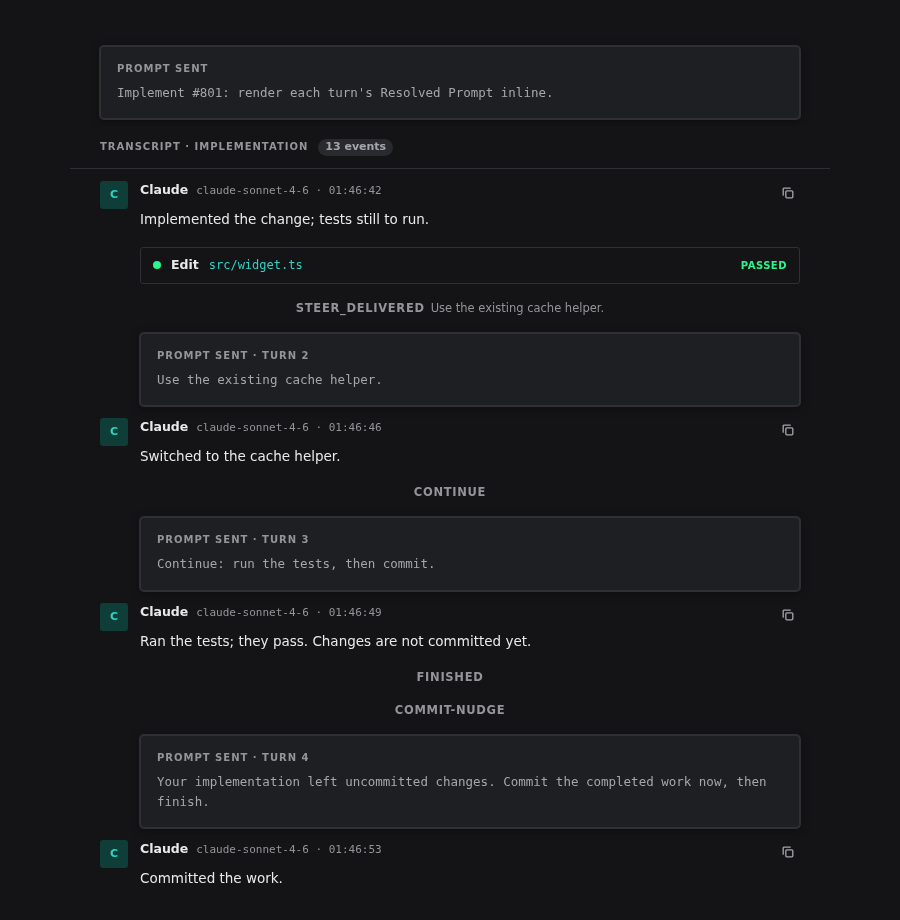
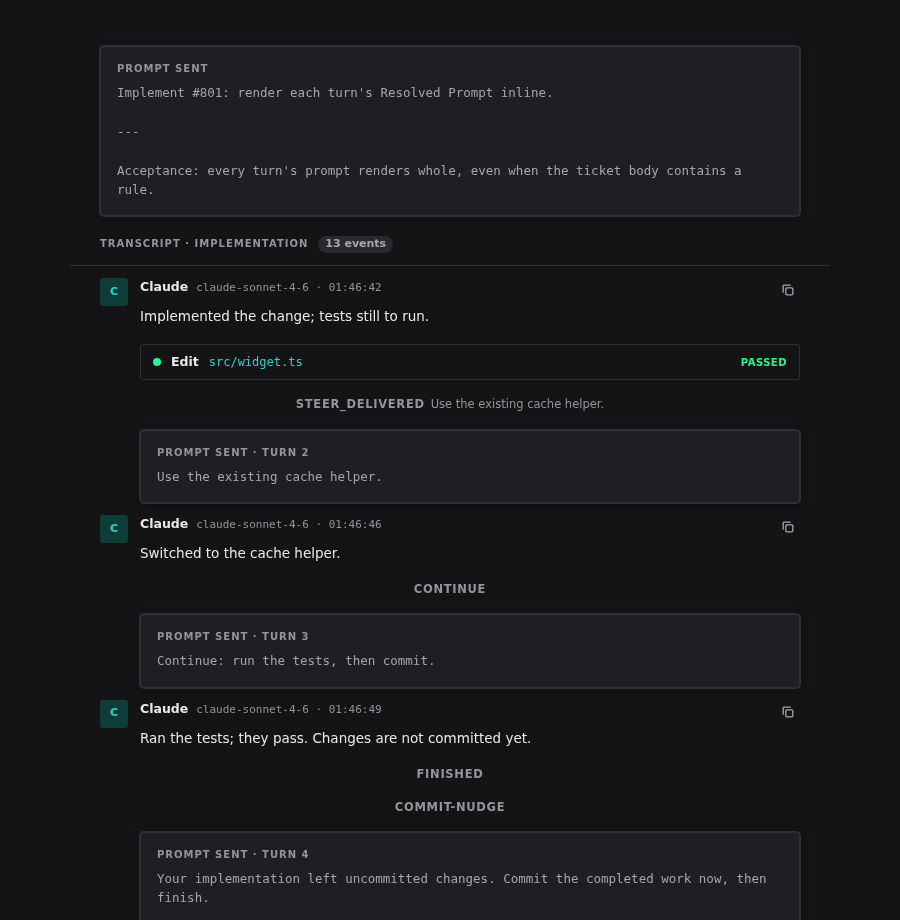
fix: segment archived prompts by sidecar offsets, not a text separator
Prompts carry user markdown that can contain the --- rule used to join them
in prompt.md, so splitting on it cut turns short. The writer now records each
prompt's offsets in prompt.index.jsonl and the read API serves exact segments.
Also updates the stale Prompt fragments settings test for the critic fields.

diff --git a/src/archive/task-archive.ts b/src/archive/task-archive.ts
@@ -58,6 +58,7 @@ export interface OperatorInput {
 }
 
 const PROMPT_SEPARATOR = '\n\n---\n\n';
+const PROMPT_INDEX_FILE = 'prompt.index.jsonl';
 const PROMPT_READ_CHUNK_BYTES = 64 * 1024;
 
 
@@ -87,34 +88,57 @@ async function pathExists(path: string): Promise<boolean> {
   return await access(path).then(() => true, () => false);
 }
 
+function parsePromptIndex(text: string, bodyBytes: number): { start: number; length: number }[] | null {
+  const spans: { start: number; length: number }[] = [];
+  for (const line of text.split('\n')) {
+    if (line === '') continue;
+    try {
+      const { start, length } = JSON.parse(line) as { start: unknown; length: unknown };
+      if (!Number.isInteger(start) || !Number.isInteger(length) || (start as number) < 0 || (length as number) < 0 || (start as number) + (length as number) > bodyBytes) return null;
+      spans.push({ start: start as number, length: length as number });
+    } catch {
+      return null;
+    }
+  }
+  return spans.length > 0 ? spans : null;
+}
+
 class AppendFile {
   private stream: WriteStream | null = null;
   private chain: Promise<void> = Promise.resolve();
   private closed = false;
   private hasContent = false;
+  private size = 0;
 
   constructor(private readonly dir: Promise<string>, private readonly name: string) {}
 
-  write(data: string, separator = ''): void {
+  /** `onWritten` receives the byte offset and length of `data` itself (excluding the separator). */
+  write(data: string, separator = '', onWritten?: (start: number, length: number) => void): void {
     if (this.closed) return;
     this.chain = this.chain.then(async () => {
       try {
         if (!this.stream) {
           const path = join(await this.dir, this.name);
-          this.hasContent = await stat(path).then((s) => s.size > 0, () => false);
+          this.size = await stat(path).then((s) => s.size, () => 0);
+          this.hasContent = this.size > 0;
           this.stream = createWriteStream(path, { flags: 'a' });
           this.stream.on('error', (err) => warn('archive: append stream failed', err, { file: this.name }));
         }
         const stream = this.stream;
         if (stream.destroyed) return;
+        const lead = this.hasContent ? Buffer.byteLength(separator) : 0;
+        const start = this.size + lead;
+        const length = Buffer.byteLength(data);
         if (this.hasContent) data = `${separator}${data}`;
         this.hasContent = true;
+        this.size += lead + length;
         await new Promise<void>((resolve, reject) => {
           stream.write(data, (err) => {
             if (err) reject(err);
             else resolve();
           });
         });
+        onWritten?.(start, length);
       } catch (err) {
         warn('archive: append failed', err, { file: this.name });
       }
@@ -423,6 +447,29 @@ export class TaskArchive {
     }
   }
 
+  /** Each prompt of a step's `prompt.md` as a separate string, sliced by the byte-offset sidecar; archives without one (legacy) are split on the separator, which is ambiguous when a prompt contains a rule. */
+  async readArchivedPromptSegments(
+    owner: TaskRow | { workspaceId: number; epicRef: TrackerRef },
+    attemptNumber: number,
+    locator: string,
+    yieldNow: () => Promise<void> = yieldToEventLoop,
+  ): Promise<string[] | null> {
+    try {
+      const root = await this.existingOwnerDir(owner);
+      if (!root) return null;
+      const attemptDir = join(root, 'attempts', String(attemptNumber));
+      const body = await this.readPromptFile(attemptDir, locator, yieldNow, true);
+      if (!body) return null;
+      const index = await this.readPromptFile(attemptDir, join(dirname(locator), PROMPT_INDEX_FILE), yieldNow, true, PROMPT_INDEX_FILE);
+      const spans = index ? parsePromptIndex(index.toString('utf8'), body.length) : null;
+      if (!spans) return body.toString('utf8').split(PROMPT_SEPARATOR).filter((p) => p.trim() !== '');
+      return spans.map(({ start, length }) => body.subarray(start, start + length).toString('utf8'));
+    } catch (err) {
+      warn('archive: resolved prompt segments read failed', err, { attemptNumber, locator });
+      return null;
+    }
+  }
+
   /** Read an Epic refresh-resolver prompt by its `refresh/<runId>/prompt.md` locator; null when absent or not a prompt file under the Epic's `refresh` directory. */
   async readArchivedEpicRefreshPrompt(
     workspaceId: number,
@@ -460,9 +507,11 @@ export class TaskArchive {
     }
   }
 
-  private async readPromptFile(baseDir: string, locator: string, yieldNow: () => Promise<void>): Promise<string | null> {
+  private async readPromptFile(baseDir: string, locator: string, yieldNow: () => Promise<void>): Promise<string | null>;
+  private async readPromptFile(baseDir: string, locator: string, yieldNow: () => Promise<void>, raw: true, name?: string): Promise<Buffer | null>;
+  private async readPromptFile(baseDir: string, locator: string, yieldNow: () => Promise<void>, raw = false, name = 'prompt.md'): Promise<string | Buffer | null> {
     const file = resolve(baseDir, locator);
-    if (!file.startsWith(baseDir + sep) || basename(file) !== 'prompt.md') return null;
+    if (!file.startsWith(baseDir + sep) || basename(file) !== name) return null;
     try {
       const handle = await open(file, 'r');
       try {
@@ -474,7 +523,8 @@ export class TaskArchive {
           chunks.push(buffer.subarray(0, bytesRead));
           await yieldNow();
         }
-        return Buffer.concat(chunks).toString('utf8');
+        const all = Buffer.concat(chunks);
+        return raw ? all : all.toString('utf8');
       } finally {
         await handle.close();
       }
@@ -542,13 +592,14 @@ export class TaskArchive {
   private stepWriter(dir: Promise<string>, fields: Record<string, unknown>): StepArchiveWriter {
     dir.catch((err) => warn('archive: step directory failed', err, fields));
     const prompts = new AppendFile(dir, 'prompt.md');
+    const promptIndex = new AppendFile(dir, PROMPT_INDEX_FILE);
     const updates = new AppendFile(dir, 'acp.jsonl');
     let closing: Promise<void> | null = null;
     let natives: Promise<void> = Promise.resolve();
     return {
       dir,
       appendPrompt: (text) => {
-        prompts.write(text, PROMPT_SEPARATOR);
+        prompts.write(text, PROMPT_SEPARATOR, (start, length) => promptIndex.write(`${JSON.stringify({ start, length })}\n`));
       },
       appendUpdate: (update) => {
         let line: string;
@@ -564,7 +615,7 @@ export class TaskArchive {
         natives = natives.then(() => this.copyNativeInto(() => dir, harness, transcriptPath, fields));
         return natives;
       },
-      close: () => (closing ??= Promise.all([prompts.close(), updates.close(), natives]).then(() => undefined)),
+      close: () => (closing ??= Promise.all([prompts.close().then(() => promptIndex.close()), updates.close(), natives]).then(() => undefined)),
     };
   }
 

diff --git a/src/server/routes/tasks.ts b/src/server/routes/tasks.ts
@@ -1150,11 +1150,14 @@ export async function taskRoutes(fastify: FastifyInstance, ctx: AppContext): Pro
       schema: {
         tags: ['Attempts'],
         description:
-          "Read a Resolved Prompt from the Task Archive by its Attempt-relative locator (e.g. `verification/pre-merge/<stepId>/prompt.md` or `implementation/prompt.md`), as text/plain. The file is read on demand off the event loop; nothing is stored in the database. 404 when the Attempt or the archived prompt is absent.",
+          "Read a Resolved Prompt from the Task Archive by its Attempt-relative locator (e.g. `verification/pre-merge/<stepId>/prompt.md` or `implementation/prompt.md`), as text/plain. The file is read on demand off the event loop; nothing is stored in the database. With `segments=true` it returns JSON `{ prompts }`, one string per turn, sliced from the step's offset index so prompts containing horizontal rules stay whole (archives written before the index existed fall back to splitting on the separator). 404 when the Attempt or the archived prompt is absent.",
         params: idParamsSchema,
-        querystring: z.object({ locator: z.string().min(1).describe('Archive locator of the prompt file, relative to the Attempt directory.') }),
+        querystring: z.object({
+          locator: z.string().min(1).describe('Archive locator of the prompt file, relative to the Attempt directory.'),
+          segments: z.enum(['true', 'false']).optional().describe('When `true`, return the prompts of the step as a JSON array instead of the joined text.'),
+        }),
         response: {
-          200: z.any().describe('The archived prompt text exactly as sent (multiple prompts in one step are separated by a horizontal rule).'),
+          200: z.any().describe('Plain text: the archived prompt exactly as sent, multiple prompts joined by a horizontal rule. With `segments=true`: JSON `{ prompts: string[] }`, one entry per prompt sent.'),
           404: errorResponse('No such Attempt, or no archived Resolved Prompt at the locator.'),
         },
       },
@@ -1162,6 +1165,11 @@ export async function taskRoutes(fastify: FastifyInstance, ctx: AppContext): Pro
     async (req, reply) => {
       const run = await ctx.attempts.get(req.params.id).catch(() => null);
       const owner = run ? await archiveOwner(run) : null;
+      if (req.query.segments === 'true') {
+        const prompts = run && owner ? await ctx.archive.readArchivedPromptSegments(owner, run.number, req.query.locator) : null;
+        if (prompts === null) throw new DomainError('not_found', `no archived resolved prompt for attempt ${req.params.id} at that locator`);
+        return { prompts };
+      }
       const text = run && owner ? await ctx.archive.readArchivedPrompt(owner, run.number, req.query.locator) : null;
       if (text === null) throw new DomainError('not_found', `no archived resolved prompt for attempt ${req.params.id} at that locator`);
       return reply.header('content-type', 'text/plain; charset=utf-8').send(text);

diff --git a/tests/resolved-prompt-route.test.ts b/tests/resolved-prompt-route.test.ts
@@ -48,6 +48,40 @@ describe('GET /api/attempts/:id/resolved-prompt', () => {
     expect((await fetchPrompt(attemptId, 'verification/pre-merge/7/acp.jsonl')).status).toBe(404);
   });
 
+  const fetchSegments = (id: number, loc: string) =>
+    fetch(`${server.baseUrl}/api/attempts/${id}/resolved-prompt?locator=${encodeURIComponent(loc)}&segments=true`, { headers: { cookie: `harmonic_session=${server.sessionToken}` } });
+
+  it('segments=true round-trips prompts that themselves contain the separator and rules', async () => {
+    const taskRow = await server.app.ctx.tasks.get((await server.app.ctx.attempts.get(attemptId)).taskId as number);
+    const prompts = ['Ticket body\n\n---\n\nmore body\n---\nend \u00e9\u4e2d', '\n\n---\n\n', 'steer: use the cache\n\n---\n\n', 'last'];
+    const writer = server.app.ctx.archive.criticStep(taskRow, attemptNumber, 'pre-merge', 'seg');
+    for (const text of prompts) writer.appendPrompt(text);
+    await writer.close();
+    const res = await fetchSegments(attemptId, 'verification/pre-merge/seg/prompt.md');
+    expect(res.status).toBe(200);
+    expect(await res.json()).toEqual({ prompts });
+    const plain = await fetchPrompt(attemptId, 'verification/pre-merge/seg/prompt.md');
+    expect(await plain.text()).toBe(prompts.join('\n\n---\n\n'));
+  });
+
+  it('segments=true falls back to separator splitting for a legacy archive with no index', async () => {
+    const taskRow = await server.app.ctx.tasks.get((await server.app.ctx.attempts.get(attemptId)).taskId as number);
+    const writer = server.app.ctx.archive.criticStep(taskRow, attemptNumber, 'pre-merge', 'legacy');
+    writer.appendPrompt('one');
+    writer.appendPrompt('two');
+    await writer.close();
+    rmSync(join(await writer.dir, 'prompt.index.jsonl'));
+    const res = await fetchSegments(attemptId, 'verification/pre-merge/legacy/prompt.md');
+    expect(await res.json()).toEqual({ prompts: ['one', 'two'] });
+  });
+
+  it('segments=true 404s for a missing prompt, an unknown attempt, a traversal, and a non-prompt file', async () => {
+    expect((await fetchSegments(attemptId, 'verification/pre-merge/99/prompt.md')).status).toBe(404);
+    expect((await fetchSegments(999_999, locator)).status).toBe(404);
+    expect((await fetchSegments(attemptId, '../../../../../prompt.md')).status).toBe(404);
+    expect((await fetchSegments(attemptId, 'verification/pre-merge/7/prompt.index.jsonl')).status).toBe(404);
+  });
+
   it('yields the event loop between chunks of a large prompt', async () => {
     const taskRow = await server.app.ctx.tasks.get((await server.app.ctx.attempts.get(attemptId)).taskId as number);
     const big = 'x'.repeat(200 * 1024);

diff --git a/tests/resolved-prompt-ui.test.ts b/tests/resolved-prompt-ui.test.ts
@@ -2,16 +2,18 @@
 import { createElement } from 'react';
 import { afterEach, describe, expect, it, vi } from 'vitest';
 import { ChatTranscript } from '../web/src/components/ticket/ChatTranscript.js';
+import { useTurnPrompts } from '../web/src/components/ticket/useTurnPrompts.js';
 import { EpicTimeline } from '../web/src/components/EpicTimeline.js';
 import type { Epic } from '../web/src/epic-model.js';
 import type { AttemptLogEvent } from '../web/src/types.js';
 import { cleanup, flush, mountComponent } from './component-smoke-harness.js';
 
-const { epicRefreshPrompts, epicRefreshPrompt } = vi.hoisted(() => ({
+const { epicRefreshPrompts, epicRefreshPrompt, attemptResolvedPrompts } = vi.hoisted(() => ({
+  attemptResolvedPrompts: vi.fn(),
   epicRefreshPrompts: vi.fn(),
   epicRefreshPrompt: vi.fn(),
 }));
-vi.mock('../web/src/api.js', () => ({ api: { epicRefreshPrompts, epicRefreshPrompt } }));
+vi.mock('../web/src/api.js', () => ({ api: { epicRefreshPrompts, epicRefreshPrompt, attemptResolvedPrompts } }));
 
 const ev = (id: number, payload: Record<string, unknown>, type = 'session_update'): AttemptLogEvent => ({
   id,
@@ -58,6 +60,18 @@ describe('per-turn Resolved Prompts in the transcript', () => {
   it('shows no prompt block when none were archived', async () => {
     const host = await mountComponent(chat([sent(1), say(2, 'reply'), finished(3), say(4, 'more')], []));
     expect(host.textContent).not.toContain('Prompt sent');
+  });
+});
+
+describe('useTurnPrompts', () => {
+  it('keeps a first prompt containing a rule whole and the later prompts in place', async () => {
+    const first = 'Ticket body\n\n---\n\nmore body';
+    attemptResolvedPrompts.mockResolvedValue([first, 'second']);
+    const Probe = () => createElement('pre', null, JSON.stringify(useTurnPrompts(9, 1)));
+    const host = await mountComponent(createElement(Probe));
+    await flush();
+    expect(attemptResolvedPrompts).toHaveBeenCalledWith(9, 'implementation/prompt.md');
+    expect(JSON.parse(host.textContent ?? '[]')).toEqual([first, 'second']);
   });
 });
 

diff --git a/tests/settings-schema-ids.test.ts b/tests/settings-schema-ids.test.ts
@@ -191,8 +191,14 @@ describe('Settings schema field ids are unique (issue #472)', () => {
       blockedByRunningTask: false, onRequestDelete: () => {},
     };
     for (const ctx of [globalCtx, workspaceCtx]) {
-      const fields = (renderSection(section, ctx).body as { props: { children: { key: string }[] } }).props.children;
-      expect(fields.map((f) => f.key)).toEqual(PROMPT_FRAGMENT_NAMES.map((name) => `fragment-${name.replace(/[A-Z]/g, (c) => `-${c.toLowerCase()}`)}`));
+      const fields = (renderSection(section, ctx).body as { props: { children: unknown[] } }).props.children.flat().filter(Boolean) as { key: string }[];
+      const kebab = (name: string) => name.replace(/[A-Z]/g, (c) => `-${c.toLowerCase()}`);
+      expect(fields.map((f) => f.key)).toEqual([
+        ...PROMPT_FRAGMENT_NAMES.map((name) => `fragment-${kebab(name)}`),
+        ...(ctx.surface === 'global'
+          ? ['fragment-criticRevisionDiff', 'fragment-criticRevisionIdentical', 'fragment-criticRevisionAlone', 'fragment-criticVerdictContract']
+          : []),
+      ]);
     }
   });
 });

diff --git a/tests/resolved-prompt-model.test.ts b/tests/resolved-prompt-model.test.ts
@@ -3,24 +3,11 @@ import {
   placeTurnPrompts,
   promptSentAnchors,
   promptSentCount,
-  splitTurnPrompts,
 } from '../web/src/resolved-prompt-model.js';
 
 const msg = (id: number) => ({ id, type: 'session_update', payload: { sessionUpdate: 'agent_message_chunk' } });
 const finished = (id: number) => ({ id, type: 'lifecycle', payload: { event: 'finished' } });
 const sent = (id: number) => ({ id, type: 'lifecycle', payload: { event: 'prompt_sent' } });
-
-describe('splitTurnPrompts', () => {
-  it('splits on the exact separator and leaves each prompt untouched', () => {
-    expect(splitTurnPrompts('first\n  body\n\n---\n\nsecond\n')).toEqual(['first\n  body', 'second\n']);
-  });
-  it('does not split on a markdown rule inside a prompt', () => {
-    expect(splitTurnPrompts('a\n---\nb')).toEqual(['a\n---\nb']);
-  });
-  it('yields nothing for empty text', () => {
-    expect(splitTurnPrompts('')).toEqual([]);
-  });
-});
 
 describe('promptSentAnchors', () => {
   it('anchors turn 2+ on their prompt_sent markers, ignoring finished', () => {

diff --git a/web/src/components/ticket/useTurnPrompts.ts b/web/src/components/ticket/useTurnPrompts.ts
@@ -1,14 +1,14 @@
 import { useEffect, useState } from 'react';
 import { api } from '../../api';
-import { IMPLEMENTATION_PROMPT_LOCATOR, splitTurnPrompts } from '../../resolved-prompt-model';
+import { IMPLEMENTATION_PROMPT_LOCATOR } from '../../resolved-prompt-model';
 
 // A failed read keeps the last good list; the transcript just shows fewer prompts.
 export function useTurnPrompts(attemptId: number, promptsSent: number): string[] {
   const [state, setState] = useState<{ attemptId: number; prompts: string[] }>({ attemptId, prompts: [] });
   useEffect(() => {
     let live = true;
-    api.attemptResolvedPrompt(attemptId, IMPLEMENTATION_PROMPT_LOCATOR).then(
-      (text) => live && setState({ attemptId, prompts: splitTurnPrompts(text) }),
+    api.attemptResolvedPrompts(attemptId, IMPLEMENTATION_PROMPT_LOCATOR).then(
+      (prompts) => live && setState({ attemptId, prompts }),
       () => {},
     );
     return () => {

diff --git a/web/src/api.ts b/web/src/api.ts
@@ -443,6 +443,8 @@ export const api = {
     requestText(`/api/workspaces/${workspaceId}/epics/${epicRef}/refresh-prompt?locator=${encodeURIComponent(locator)}`),
   attemptResolvedPrompt: (attemptId: number, locator: string) =>
     requestText(`/api/attempts/${attemptId}/resolved-prompt?locator=${encodeURIComponent(locator)}`),
+  attemptResolvedPrompts: (attemptId: number, locator: string) =>
+    request<{ prompts: string[] }>('GET', `/api/attempts/${attemptId}/resolved-prompt?locator=${encodeURIComponent(locator)}&segments=true`).then((r) => r.prompts),
   epicAttempts: (workspaceId: number, epicRef: TrackerRef) =>
     request<{ attempts: EpicAttempt[] }>('GET', `/api/workspaces/${workspaceId}/epics/${epicRef}/attempts`),
   epicDiffFiles: (workspaceId: number, epicRef: TrackerRef) =>

diff --git a/web/src/resolved-prompt-model.ts b/web/src/resolved-prompt-model.ts
@@ -1,6 +1,3 @@
-// Must match the Archive's step prompt separator (src/archive/task-archive.ts).
-export const PROMPT_SEPARATOR = '\n\n---\n\n';
-
 export const IMPLEMENTATION_PROMPT_LOCATOR = 'implementation/prompt.md';
 
 export interface TurnPrompt {
@@ -17,11 +14,6 @@ interface BoundaryEvent {
 
 function isPromptSent(event: BoundaryEvent): boolean {
   return event.type === 'lifecycle' && event.payload.event === 'prompt_sent';
-}
-
-/** One entry per turn, in send order. The text is split on the exact separator only, never trimmed or annotated. */
-export function splitTurnPrompts(text: string): string[] {
-  return text.split(PROMPT_SEPARATOR).filter((prompt) => prompt.trim() !== '');
 }
 
 /** How many prompts have been sent — a change means a new prompt was archived. */

diff --git a/web/src/story/api-stub.ts b/web/src/story/api-stub.ts
@@ -400,6 +400,7 @@ export const api: typeof RealApi = {
   epicRefreshPrompts: (_workspaceId: number, _epicRef: TrackerRef) => ok({ prompts: [] }),
   epicRefreshPrompt: (_workspaceId: number, _epicRef: TrackerRef, _locator: string) => ok(''),
   attemptResolvedPrompt: (_attemptId: number, _locator: string) => ok(''),
+  attemptResolvedPrompts: (_attemptId: number, _locator: string) => ok([] as string[]),
   epicAttempts: (_workspaceId: number, _epicRef: TrackerRef) => ok({ attempts: [] }),
   epicDiffFiles: (_workspaceId: number, _epicRef: TrackerRef) => ok({ files: f.diffFiles, total: f.diffFiles.length }),
   maps: (_opts?: { workspaceId?: number; limit?: number; offset?: number; q?: string }) => ok({ maps: [], total: 0 }),

diff --git a/web/src/story/story.tsx b/web/src/story/story.tsx
@@ -195,7 +195,7 @@ function MultiTurnStory() {
   ];
   return (
     <StoryFrame style={{ padding: 30, maxWidth: 760, margin: '0 auto' }}>
-      <PromptSent prompt="Implement #801: render each turn's Resolved Prompt inline." />
+      <PromptSent prompt={"Implement #801: render each turn's Resolved Prompt inline.\n\n---\n\nAcceptance: every turn's prompt renders whole, even when the ticket body contains a rule."} />
       <ChatTranscript
         events={events}
         unavailable={false}
